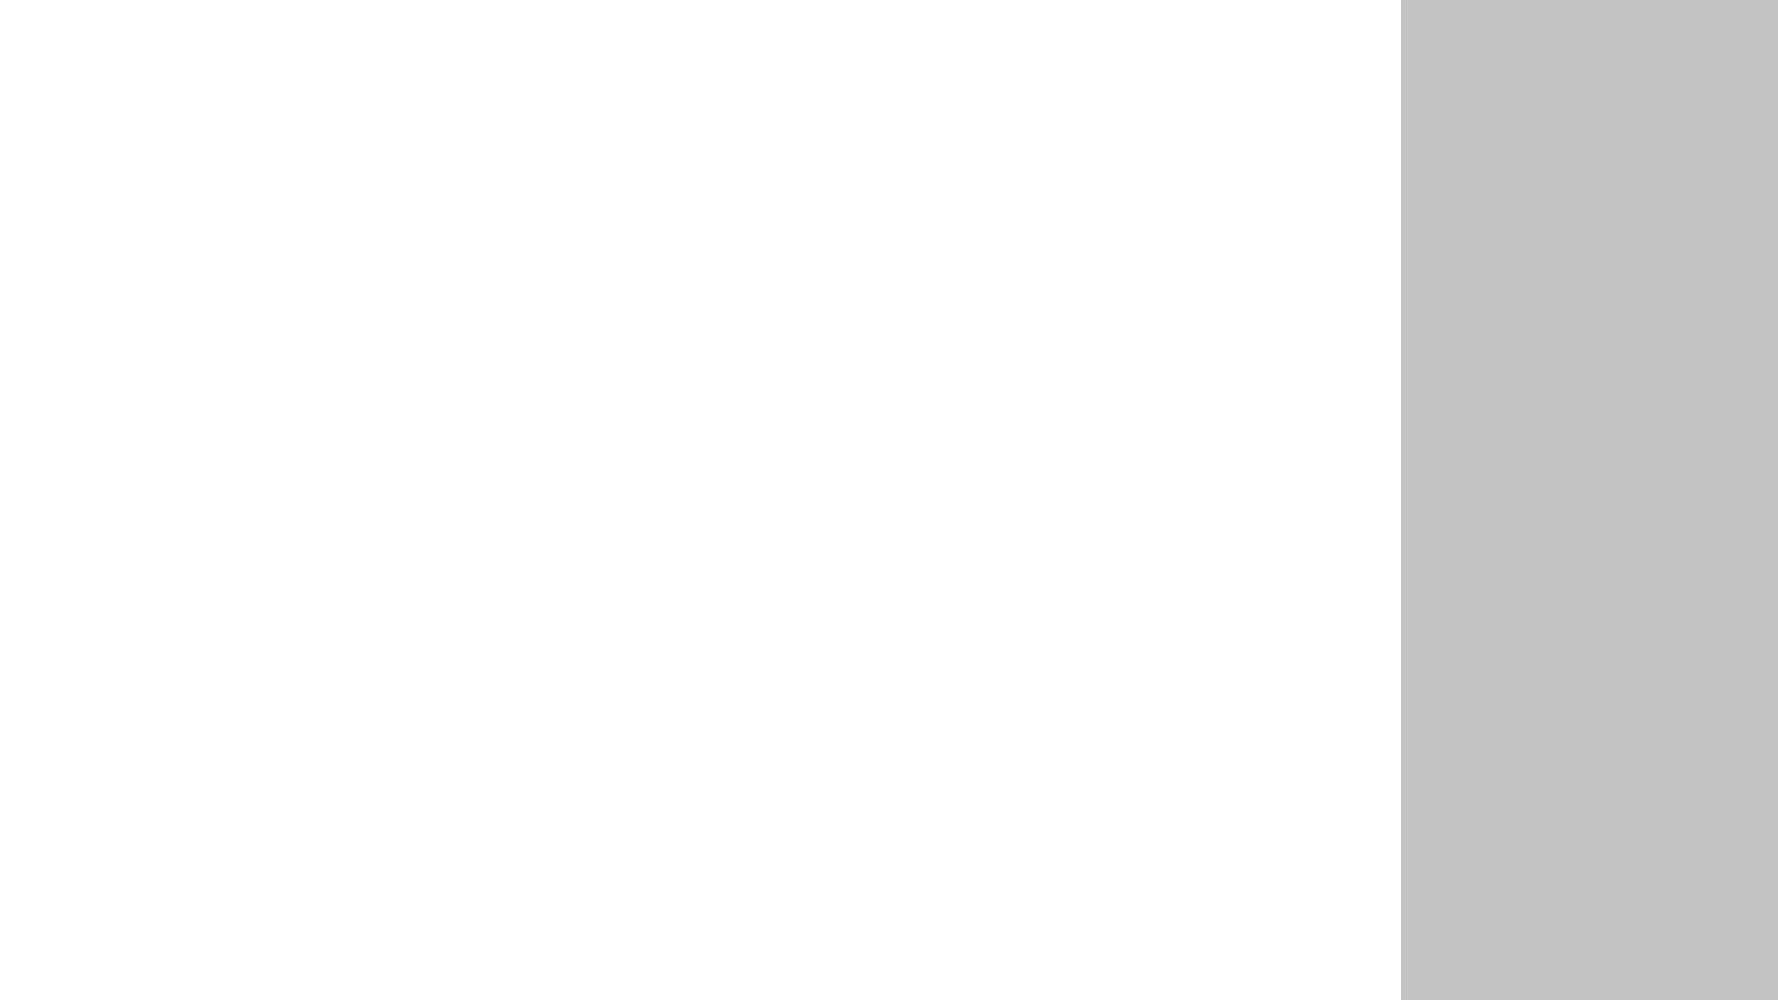
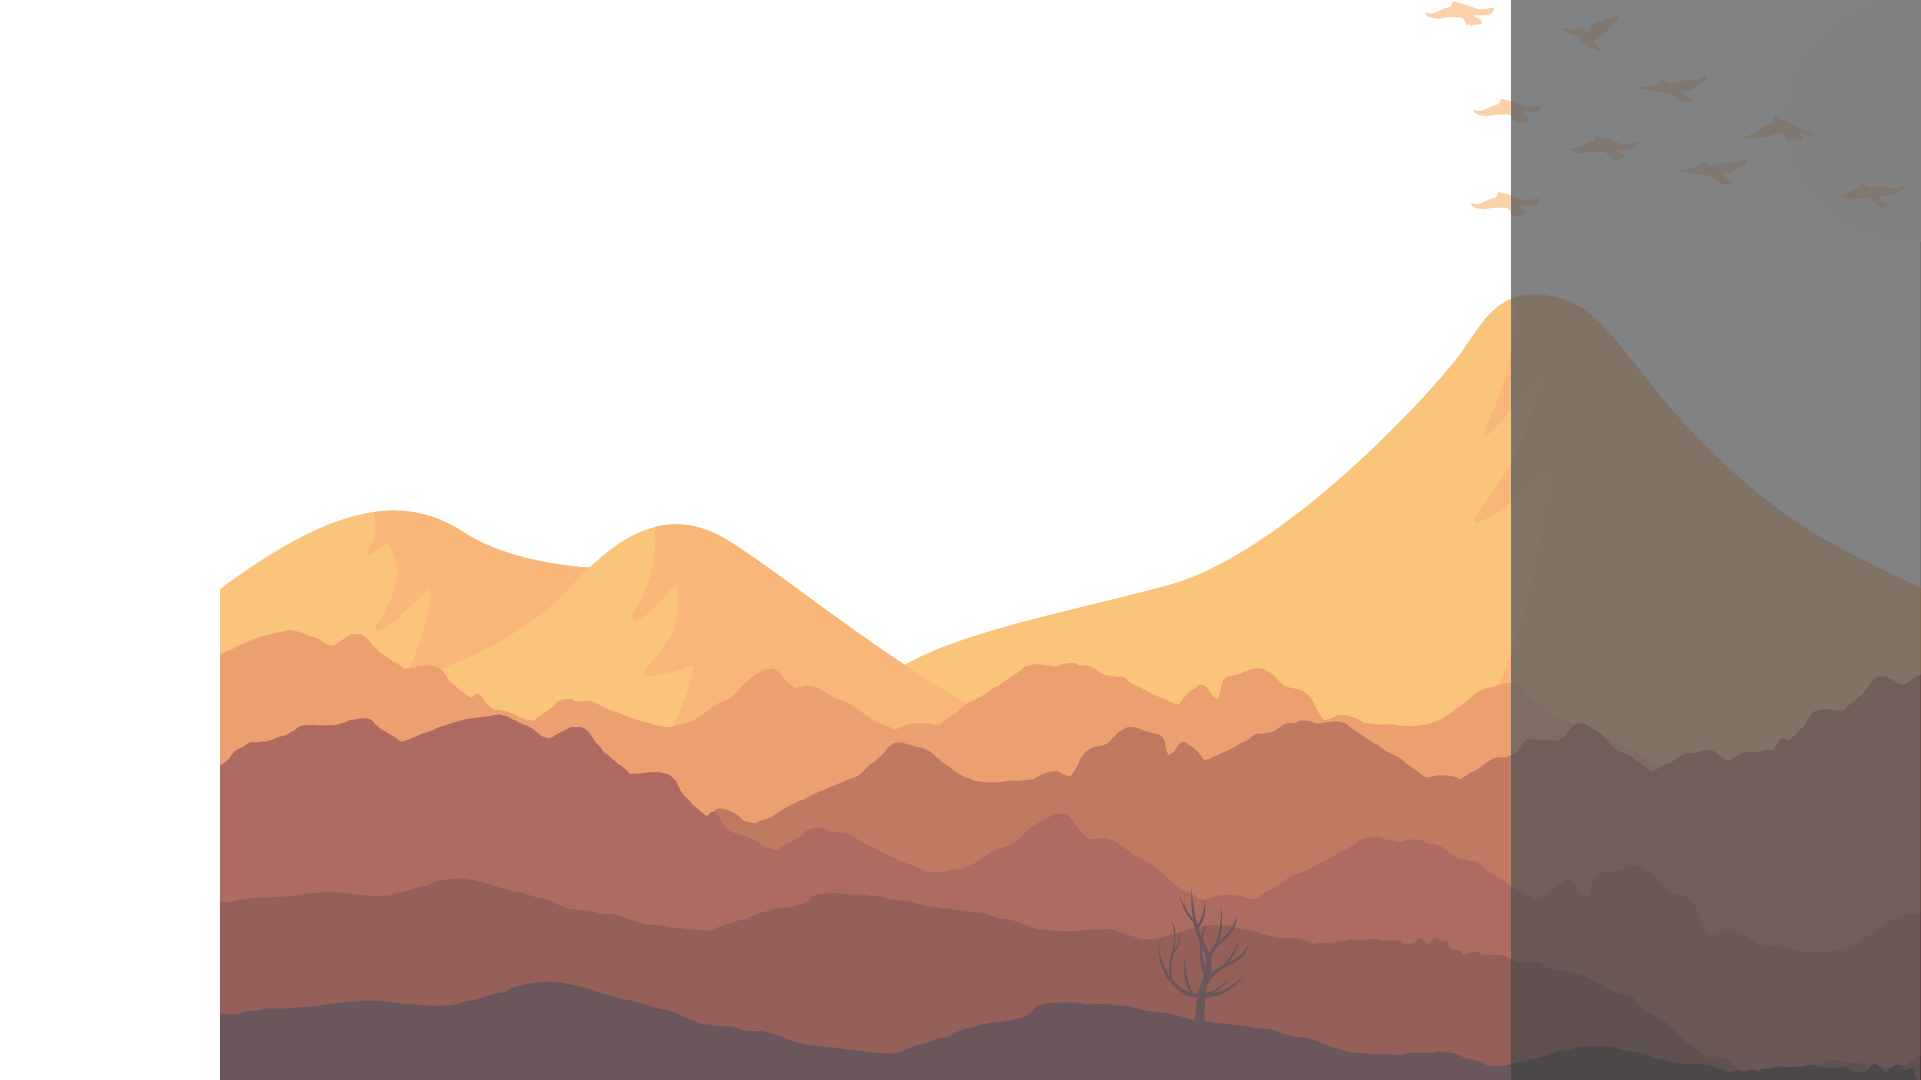
New background and simple UI added

diff --git a/core/src/pl/rejurhf/screens/InitialScreen.java b/core/src/pl/rejurhf/screens/InitialScreen.java
@@ -1,13 +1,15 @@
 package pl.rejurhf.screens;
 
+import com.badlogic.gdx.Gdx;
 import com.badlogic.gdx.graphics.Texture;
+import com.badlogic.gdx.scenes.scene2d.Actor;
 import com.badlogic.gdx.scenes.scene2d.ui.Image;
+import com.badlogic.gdx.scenes.scene2d.ui.Label;
+import com.badlogic.gdx.scenes.scene2d.utils.ChangeListener;
 import pl.rejurhf.StrategyGame;
-import pl.rejurhf.entities.Elves;
+import pl.rejurhf.support.UIConstants;
 import pl.rejurhf.support.UnitConstants;
-import pl.rejurhf.ui.IClickCallback;
-import pl.rejurhf.ui.CustomSelectBox;
-import pl.rejurhf.ui.SubmitButton;
+import pl.rejurhf.ui.*;
 
 import java.util.ArrayList;
 import java.util.List;
@@ -15,8 +17,13 @@ import java.util.List;
 public class InitialScreen extends AbstractScreen {
     private Image bgImg;
     private SubmitButton submitButton;
+    private List<CustomCheckBox> checkBoxRaceList;
+    private List<CustomCheckBox> checkBoxRandomPosList;
     private List<CustomSelectBox> selectBoxRaceList;
     private List<CustomSelectBox> selectBoxColorList;
+    private List<CustomTextField> textInputXPosList;
+    private List<CustomTextField> textInputYPosList;
+    private int startPosOfSettings;
 
     public InitialScreen(final StrategyGame game){
         super(game);
@@ -24,19 +31,43 @@ public class InitialScreen extends AbstractScreen {
 
     @Override
     protected void init() {
+        startPosOfSettings = 100;
         initBg();
+        initAddLabels();
+        initCheckBoxAddRace();
         initDropDownRace();
         initDropDownColor();
         initSubmitButton();
+        initTextFieldXPos();
+        initTextFieldYPos();
+        intCheckBoxRandomPos();
     }
 
-    private void initDropDownColor() {
-        selectBoxColorList = new ArrayList<CustomSelectBox>();
+    private void initAddLabels() {
+        Label label = new Label("Label", UIConstants.getDefaultSkin());
+        label.setSize(100, 100);
+        label.setPosition(100, 100);
+        stage.addActor(label);
+    }
+
+    private void initCheckBoxAddRace() {
+        checkBoxRaceList = new ArrayList<CustomCheckBox>();
 
         for (int i = 0; i < 6; ++i){
-            CustomSelectBox selectBoxRace = new CustomSelectBox(430, 900 - (50 * i), UnitConstants.COLOR_ARRAY);
-            selectBoxRaceList.add(selectBoxRace);
-            stage.addActor(selectBoxRace);
+            final CustomCheckBox customCheckBox = new CustomCheckBox("",
+                    startPosOfSettings, 900  - (50 * i));
+
+            customCheckBox.addListener(new ChangeListener(){
+                @Override
+                public void changed (ChangeEvent event, Actor actor) {
+                    System.out.println(customCheckBox.isChecked());
+                    Gdx.graphics.setContinuousRendering(customCheckBox.isChecked());
+                }
+            });
+
+            checkBoxRaceList.add(customCheckBox);
+            stage.addActor(customCheckBox);
+
         }
     }
 
@@ -44,9 +75,64 @@ public class InitialScreen extends AbstractScreen {
         selectBoxRaceList = new ArrayList<CustomSelectBox>();
 
         for (int i = 0; i < 6; ++i){
-            CustomSelectBox selectBoxRace = new CustomSelectBox(200, 900 - (50 * i), UnitConstants.RACES_ARRAY);
+            CustomSelectBox selectBoxRace = new CustomSelectBox(startPosOfSettings + 40, 900 - (50 * i),
+                    UnitConstants.RACES_ARRAY);
             selectBoxRaceList.add(selectBoxRace);
             stage.addActor(selectBoxRace);
+        }
+    }
+
+    private void initDropDownColor() {
+        selectBoxColorList = new ArrayList<CustomSelectBox>();
+
+        for (int i = 0; i < 6; ++i){
+            CustomSelectBox selectBoxColor = new CustomSelectBox(startPosOfSettings + 160, 900 - (50 * i),
+                    UnitConstants.COLOR_ARRAY);
+            selectBoxColorList.add(selectBoxColor);
+            stage.addActor(selectBoxColor);
+        }
+    }
+
+    private void initTextFieldXPos() {
+        textInputXPosList = new ArrayList<CustomTextField>();
+
+        for (int i = 0; i < 6; ++i){
+            CustomTextField customTextField = new CustomTextField("",
+                    startPosOfSettings + 300, 900 - (50*i));
+            textInputXPosList.add(customTextField);
+            stage.addActor(customTextField);
+        }
+    }
+
+    private void initTextFieldYPos() {
+        textInputYPosList = new ArrayList<CustomTextField>();
+
+        for (int i = 0; i < 6; ++i){
+            CustomTextField customTextField = new CustomTextField("",
+                    startPosOfSettings + 360, 900 - (50*i));
+            textInputYPosList.add(customTextField);
+            stage.addActor(customTextField);
+        }
+    }
+
+    private void intCheckBoxRandomPos() {
+        checkBoxRandomPosList = new ArrayList<CustomCheckBox>();
+
+        for (int i = 0; i < 6; ++i){
+            final CustomCheckBox customCheckBox = new CustomCheckBox("",
+                    startPosOfSettings + 270, 900 - (50*i));
+
+            customCheckBox.addListener(new ChangeListener(){
+                @Override
+                public void changed (ChangeEvent event, Actor actor) {
+                    System.out.println(customCheckBox.isChecked());
+                    Gdx.graphics.setContinuousRendering(customCheckBox.isChecked());
+                }
+            });
+
+            checkBoxRandomPosList.add(customCheckBox);
+            stage.addActor(customCheckBox);
+
         }
     }
 
@@ -93,6 +179,7 @@ public class InitialScreen extends AbstractScreen {
     // set background
     private void initBg() {
         bgImg = new Image(new Texture("bg\\init_screen_bg.png"));
+        bgImg.setSize(StrategyGame.WIDTH, StrategyGame.HEIGHT);
         stage.addActor(bgImg);
     }
 

diff --git a/core/src/pl/rejurhf/ui/SubmitButton.java b/core/src/pl/rejurhf/ui/SubmitButton.java
@@ -1,15 +1,13 @@
 package pl.rejurhf.ui;
 
-import com.badlogic.gdx.Gdx;
-import com.badlogic.gdx.graphics.g2d.TextureAtlas;
 import com.badlogic.gdx.scenes.scene2d.InputEvent;
 import com.badlogic.gdx.scenes.scene2d.ui.Button;
-import com.badlogic.gdx.scenes.scene2d.ui.Skin;
 import com.badlogic.gdx.scenes.scene2d.utils.ClickListener;
+import pl.rejurhf.support.UIConstants;
 
 public class SubmitButton extends Button {
     public SubmitButton(final IClickCallback callback){
-        super(prepareSubmitButtonStyle());
+        super(UIConstants.getDefaultSkin());
 
         init(callback);
     }
@@ -26,15 +24,5 @@ public class SubmitButton extends Button {
                 return super.touchDown(event, x, y, pointer, button);
             }
         });
-    }
-
-    private static ButtonStyle prepareSubmitButtonStyle() {
-        TextureAtlas atlas = new TextureAtlas(Gdx.files.internal("ui_style\\ui-red.atlas"));
-        Skin skin = new Skin(atlas);
-        ButtonStyle buttonStyle = new ButtonStyle();
-        buttonStyle.up = skin.getDrawable("button_02");
-        buttonStyle.down = skin.getDrawable("button_03");
-
-        return buttonStyle;
     }
 }

diff --git a/core/src/pl/rejurhf/support/UnitConstants.java b/core/src/pl/rejurhf/support/UnitConstants.java
@@ -107,12 +107,6 @@ public class UnitConstants {
             return null;
     }
 
-    private static TextureRegionDrawable getDrawable(String imageSrc, TextureRegionDrawable imageDrawable){
-        if (imageDrawable == null)
-            imageDrawable = new TextureRegionDrawable(new TextureRegion(new Texture(imageSrc)));
-        return imageDrawable;
-    }
-
     public static String getColorName(String color){
         if(color.equals(BLUE_CAPITOL) || color.equals(BLUE_UNIT))
             return "BLUE";
@@ -141,5 +135,17 @@ public class UnitConstants {
             return "ORCS";
 
         return "Not compatible rrace";
+    }
+
+    /*
+
+    private
+
+     */
+
+    private static TextureRegionDrawable getDrawable(String imageSrc, TextureRegionDrawable imageDrawable){
+        if (imageDrawable == null)
+            imageDrawable = new TextureRegionDrawable(new TextureRegion(new Texture(imageSrc)));
+        return imageDrawable;
     }
 }

diff --git a/core/src/pl/rejurhf/ui/CustomSelectBox.java b/core/src/pl/rejurhf/ui/CustomSelectBox.java
@@ -1,25 +1,19 @@
 package pl.rejurhf.ui;
 
-import com.badlogic.gdx.Gdx;
 import com.badlogic.gdx.scenes.scene2d.ui.SelectBox;
-import com.badlogic.gdx.scenes.scene2d.ui.Skin;
+import pl.rejurhf.support.UIConstants;
 
 public class CustomSelectBox extends SelectBox {
     public CustomSelectBox(int xPos, int yPos, String[] items){
-        super(prepareSkin());
+        super(UIConstants.getDefaultSkin());
 
-        initValues(xPos, yPos, items);
+        init(xPos, yPos, items);
     }
 
-    private void initValues(int xPos, int yPos, String[] items) {
+    private void init(int xPos, int yPos, String[] items) {
 
         this.setItems(items);
-        this.setSize(200, 30);
+        this.setSize(100, 30);
         this.setPosition(xPos, yPos);
-    }
-
-    private static Skin prepareSkin() {
-        Skin skin = new Skin(Gdx.files.internal("default\\uiskin.json"));
-        return skin;
     }
 }

diff --git a/core/src/pl/rejurhf/ui/Next10TimesButton.java b/core/src/pl/rejurhf/ui/Next10TimesButton.java
@@ -7,7 +7,7 @@ import pl.rejurhf.support.UIConstants;
 
 public class Next10TimesButton extends Button {
     public Next10TimesButton(IClickCallback callback) {
-        super(prepareNextButtonStyle());
+        super(UIConstants.getDefaultSkin());
 
         init(callback);
     }
@@ -24,13 +24,5 @@ public class Next10TimesButton extends Button {
                 return super.touchDown(event, x, y, pointer, button);
             }
         });
-    }
-
-    private static Button.ButtonStyle prepareNextButtonStyle() {
-        Button.ButtonStyle buttonStyle = new Button.ButtonStyle();
-        buttonStyle.up = UIConstants.getDrawable(UIConstants.NEXT_BUTTON_10X_UP);
-        buttonStyle.down = UIConstants.getDrawable(UIConstants.NEXT_BUTTON_10X_DOWN);
-
-        return buttonStyle;
     }
 }

diff --git a/core/src/pl/rejurhf/ui/Next5TimesButton.java b/core/src/pl/rejurhf/ui/Next5TimesButton.java
@@ -7,7 +7,7 @@ import pl.rejurhf.support.UIConstants;
 
 public class Next5TimesButton extends Button {
     public Next5TimesButton(IClickCallback callback) {
-        super(prepareNextButtonStyle());
+        super(UIConstants.getDefaultSkin());
 
         init(callback);
     }
@@ -24,14 +24,6 @@ public class Next5TimesButton extends Button {
                 return super.touchDown(event, x, y, pointer, button);
             }
         });
-    }
-
-    private static Button.ButtonStyle prepareNextButtonStyle() {
-        Button.ButtonStyle buttonStyle = new Button.ButtonStyle();
-        buttonStyle.up = UIConstants.getDrawable(UIConstants.NEXT_BUTTON_5X_UP);
-        buttonStyle.down = UIConstants.getDrawable(UIConstants.NEXT_BUTTON_5X_DOWN);
-
-        return buttonStyle;
     }
 }
 

diff --git a/core/src/pl/rejurhf/ui/NextButton.java b/core/src/pl/rejurhf/ui/NextButton.java
@@ -7,7 +7,7 @@ import pl.rejurhf.support.UIConstants;
 
 public class NextButton extends Button{
     public NextButton(IClickCallback callback) {
-        super(prepareNextButtonStyle());
+        super(UIConstants.getDefaultSkin());
 
         init(callback);
     }
@@ -24,13 +24,5 @@ public class NextButton extends Button{
                 return super.touchDown(event, x, y, pointer, button);
             }
         });
-    }
-
-    private static Button.ButtonStyle prepareNextButtonStyle() {
-        Button.ButtonStyle buttonStyle = new Button.ButtonStyle();
-        buttonStyle.up = UIConstants.getDrawable(UIConstants.NEXT_BUTTON_UP);
-        buttonStyle.down = UIConstants.getDrawable(UIConstants.NEXT_BUTTON_DOWN);
-
-        return buttonStyle;
     }
 }

diff --git a/core/src/pl/rejurhf/support/UIConstants.java b/core/src/pl/rejurhf/support/UIConstants.java
@@ -1,7 +1,9 @@
 package pl.rejurhf.support;
 
+import com.badlogic.gdx.Gdx;
 import com.badlogic.gdx.graphics.Texture;
 import com.badlogic.gdx.graphics.g2d.TextureRegion;
+import com.badlogic.gdx.scenes.scene2d.ui.Skin;
 import com.badlogic.gdx.scenes.scene2d.utils.TextureRegionDrawable;
 
 public class UIConstants {
@@ -58,6 +60,17 @@ public class UIConstants {
         } else
             return null;
     }
+
+    public static Skin getDefaultSkin() {
+        Skin skin = new Skin(Gdx.files.internal("default\\uiskin.json"));
+        return skin;
+    }
+
+    /*
+
+    private
+
+     */
 
     private static TextureRegionDrawable getDrawable(String imageSrc, TextureRegionDrawable imageDrawable){
         if (imageDrawable == null)

diff --git a/core/src/pl/rejurhf/ui/CustomTextField.java b/core/src/pl/rejurhf/ui/CustomTextField.java
@@ -1,0 +1,17 @@
+package pl.rejurhf.ui;
+
+import com.badlogic.gdx.scenes.scene2d.ui.TextField;
+import pl.rejurhf.support.UIConstants;
+
+public class CustomTextField extends TextField {
+    public CustomTextField(String text, int xPos, int yPos) {
+        super(text, UIConstants.getDefaultSkin());
+
+        init(xPos, yPos);
+    }
+
+    private void init(int xPos, int yPos) {
+        this.setSize(50, 30);
+        this.setPosition(xPos, yPos);
+    }
+}

diff --git a/core/src/pl/rejurhf/ui/CustomCheckBox.java b/core/src/pl/rejurhf/ui/CustomCheckBox.java
@@ -1,0 +1,18 @@
+package pl.rejurhf.ui;
+
+import com.badlogic.gdx.scenes.scene2d.ui.CheckBox;
+import pl.rejurhf.support.UIConstants;
+
+public class CustomCheckBox extends CheckBox {
+    public CustomCheckBox(String text, int xPos, int yPos) {
+        super(text, UIConstants.getDefaultSkin());
+
+        init(xPos, yPos);
+    }
+
+    private void init(int xPos, int yPos) {
+        this.setSize(30, 30);
+
+        this.setPosition(xPos, yPos);
+    }
+}

diff --git a/core/src/pl/rejurhf/screens/GameplayScreen.java b/core/src/pl/rejurhf/screens/GameplayScreen.java
@@ -139,6 +139,7 @@ public class GameplayScreen extends AbstractScreen {
     // set background
     private void initBg() {
         bgImg = new Image(new Texture("bg\\game_screen_bg.png"));
+        bgImg.setSize(StrategyGame.WIDTH, StrategyGame.HEIGHT);
         stage.addActor(bgImg);
     }
 
